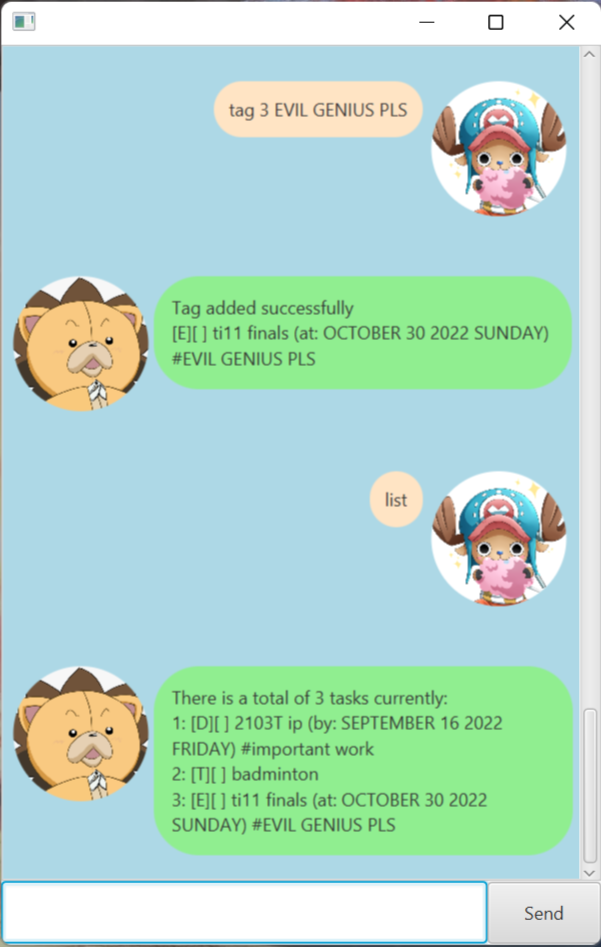
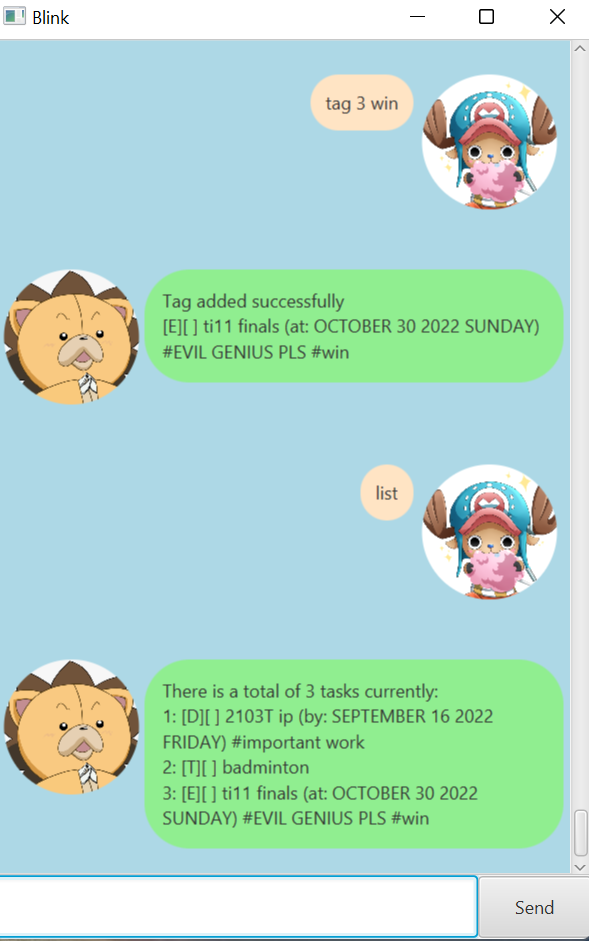
Add Title to Main window

Changed region(s): [[0.0, 0.0, 1.0, 1.0], [0.8557, 0.9554, 0.9474, 0.9862], [0.9779, 0.9862, 1.0, 1.0]]

diff --git a/src/main/java/blink/Main.java b/src/main/java/blink/Main.java
@@ -21,6 +21,7 @@ public class Main extends Application {
             FXMLLoader fxmlLoader = new FXMLLoader(Main.class.getResource("/view/MainWindow.fxml"));
             AnchorPane ap = fxmlLoader.load();
             Scene scene = new Scene(ap);
+            stage.setTitle("Blink");
             stage.setScene(scene);
             fxmlLoader.<MainWindow>getController().setBlink(blink);
             stage.show();

diff --git a/src/main/java/blink/task/Task.java b/src/main/java/blink/task/Task.java
@@ -140,7 +140,6 @@ public abstract class Task {
         boolean isFound = false;
         for (int x = 0; x < allDesc.length; x++) {
             String word = allDesc[x].toLowerCase();
-            word = word.replaceAll("][-+.<>?/:;',()#]", "");
             if (word.equals(keyword)) {
                 isFound = true;
                 break;
